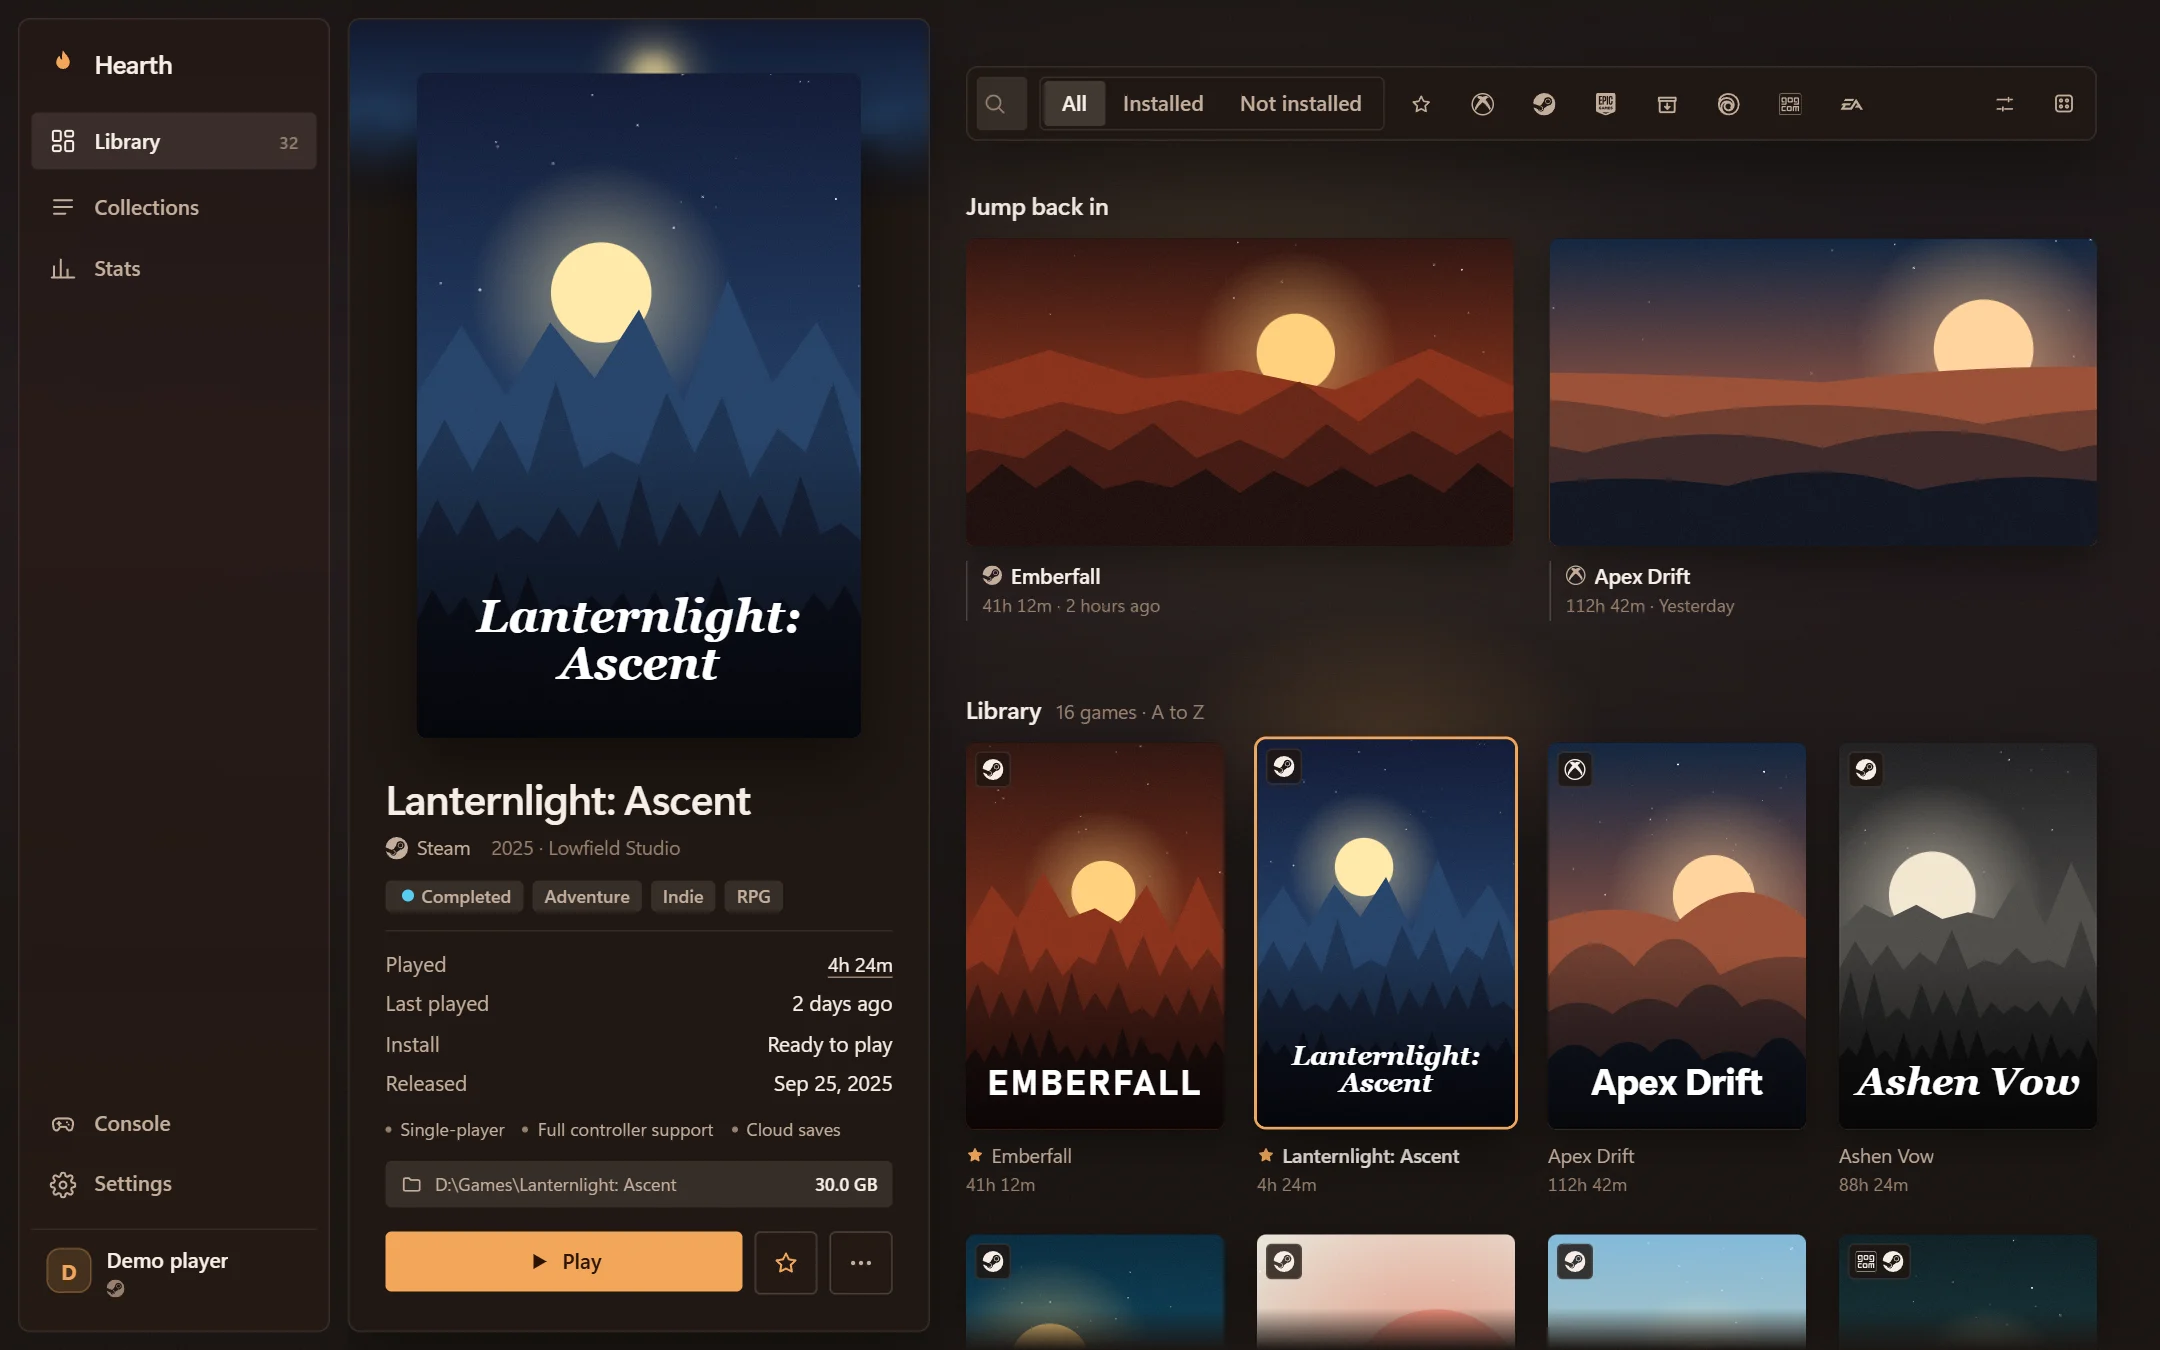
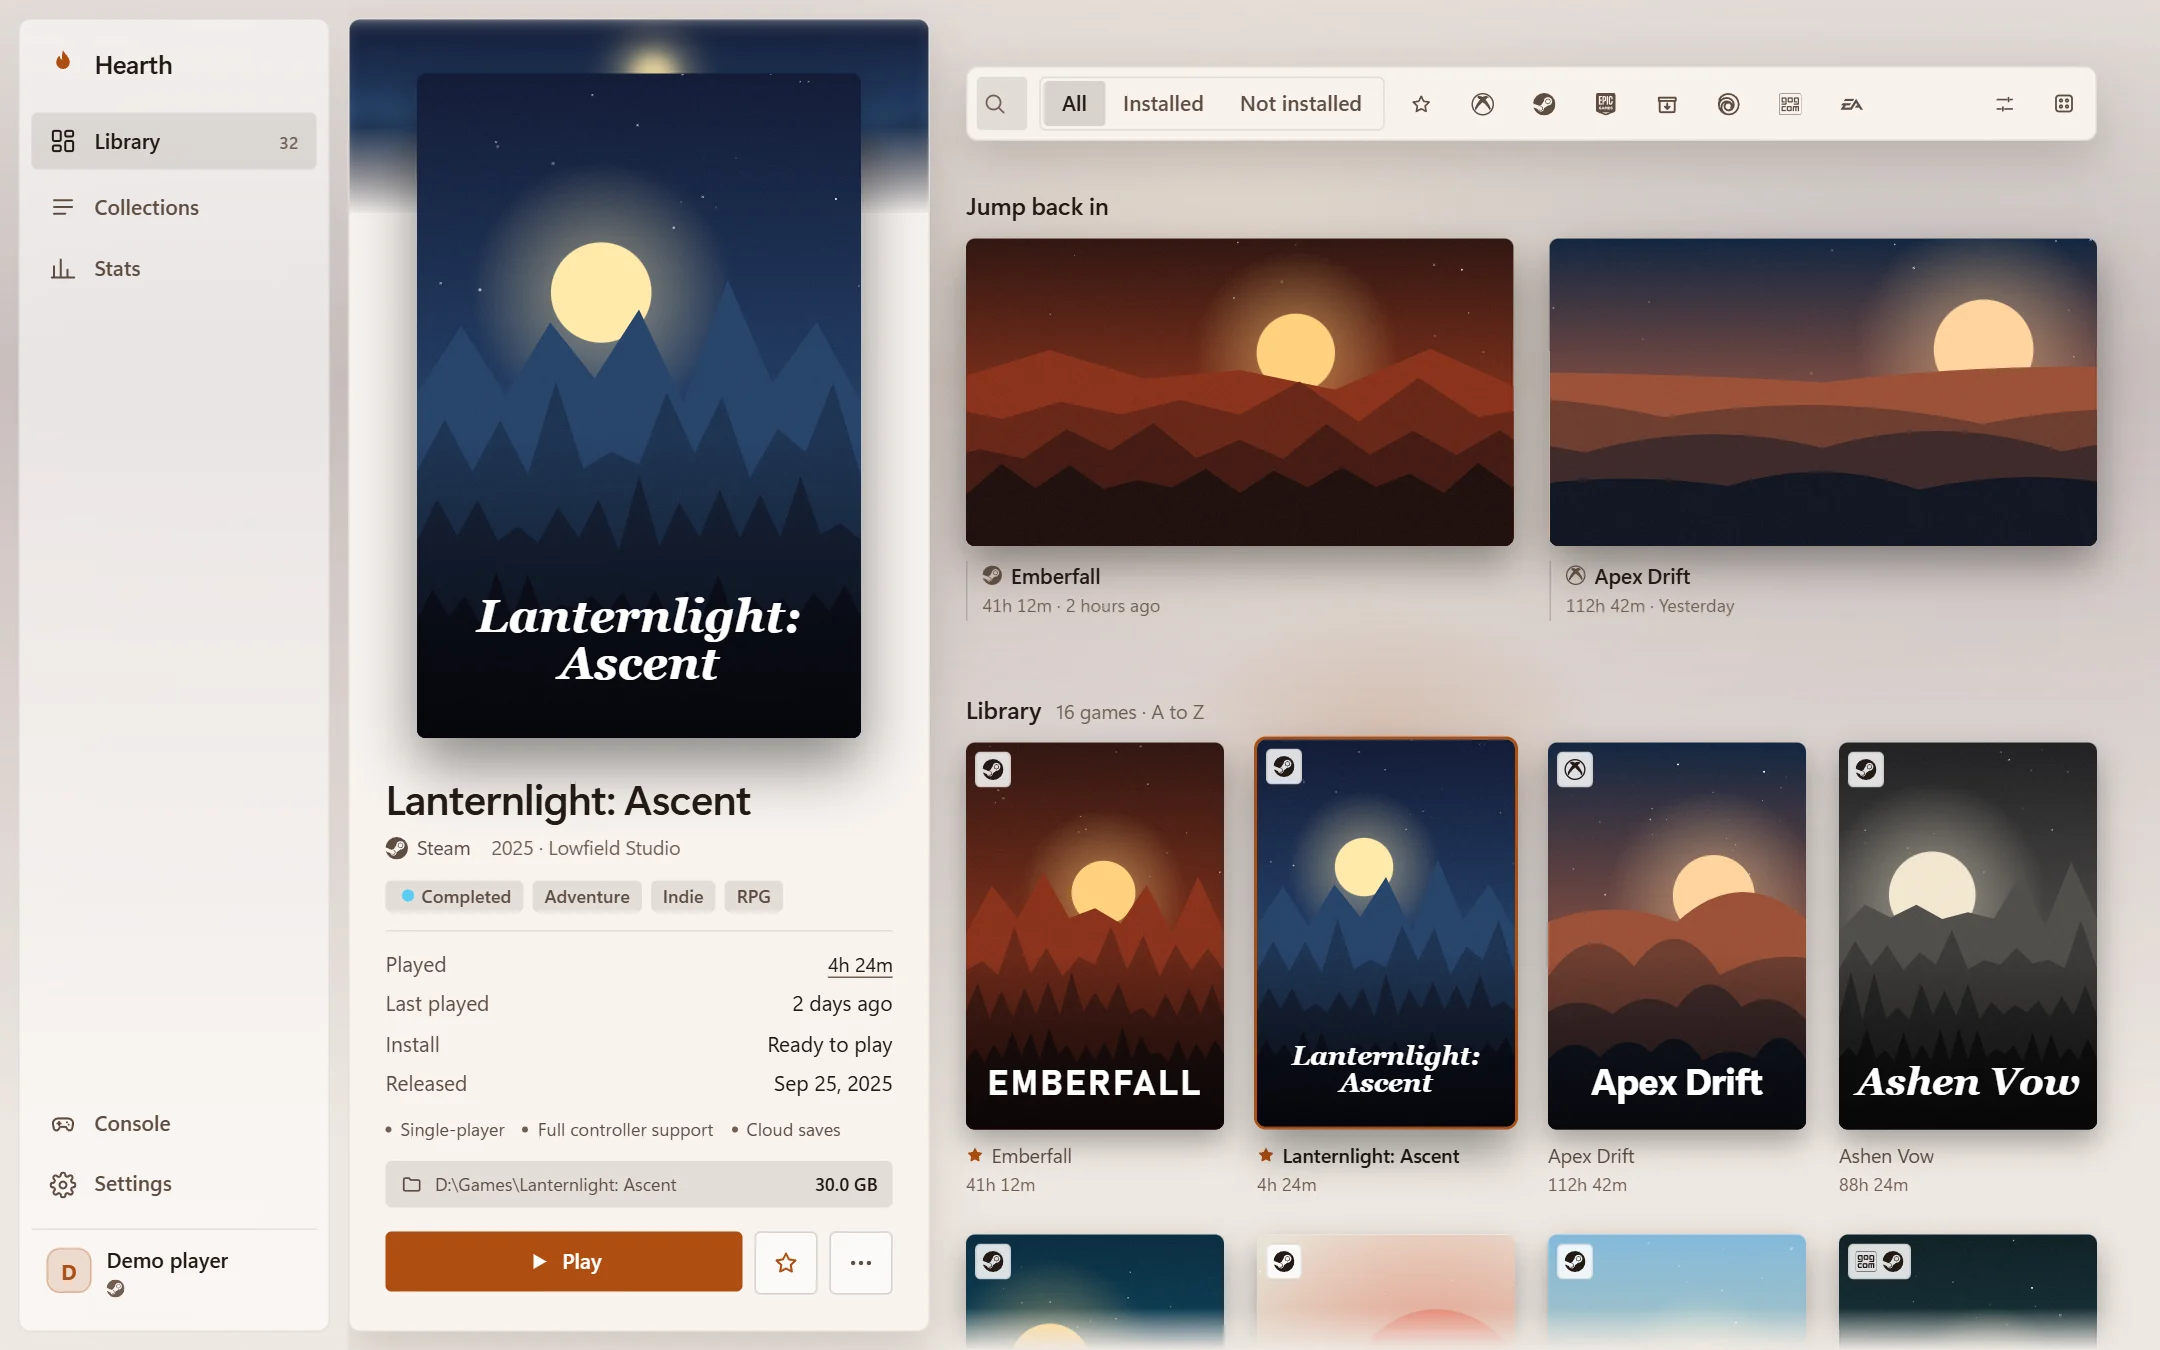
README: the four layout shots mix dark and light

diff --git a/README.md b/README.md
@@ -72,13 +72,13 @@ Hearth needs Windows 10 or 11 (64-bit) and Microsoft WebView2, which already shi
 - **Ways to play:** start a game through a mod loader, an offline server or a tool, with its own arguments.
 - **Storage:** what each installed game takes on disk, and uninstalling through its store (or to the Recycle Bin for folder games).
 
-A cover wall or a list beside the game's art, in seven tones, dark or light:
+A cover wall or a list beside the game's art, dark or light, in any of seven tones or your own highlight colour:
 
 <p align="center">
-  <img src="docs/screenshots/list-harbor.webp" alt="The list layout in the Harbor tone: titles grouped by install state beside Salt & Sail's detail page" width="49%">
-  <img src="docs/screenshots/list-rosewood.webp" alt="The list layout in the Rosewood tone, with Harvest Hollow selected" width="49%">
-  <img src="docs/screenshots/grid-ember.webp" alt="The cover wall in the Ember tone, with Lanternlight: Ascent in the game panel" width="49%">
-  <img src="docs/screenshots/grid-gallery.webp" alt="The cover wall in the Gallery tone, with Deep Blue Diner in the game panel" width="49%">
+  <img src="docs/screenshots/list-harbor.webp" alt="The list layout in dark mode with the Harbor tone: titles grouped by install state beside Salt & Sail's detail page" width="49%">
+  <img src="docs/screenshots/list-rosewood.webp" alt="The list layout in light mode with the Rosewood tone, Harvest Hollow selected" width="49%">
+  <img src="docs/screenshots/grid-ember.webp" alt="The cover wall in light mode with the Ember tone, Lanternlight: Ascent in the game panel" width="49%">
+  <img src="docs/screenshots/grid-gallery.webp" alt="The cover wall in dark mode with the Gallery tone, with Deep Blue Diner in the game panel" width="49%">
 </p>
 
 ### Console mode, for the couch
